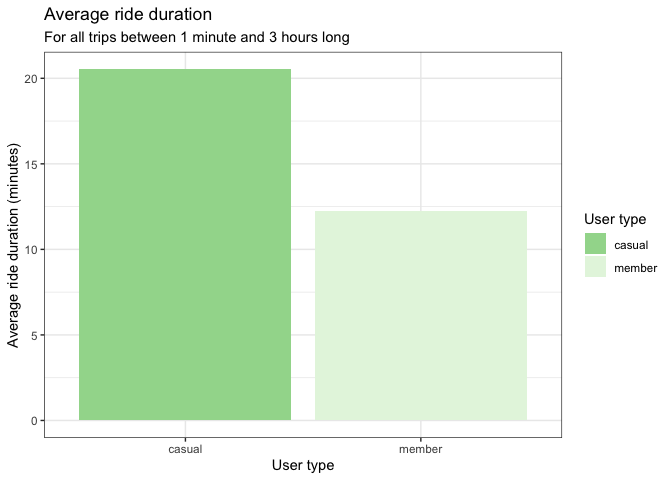
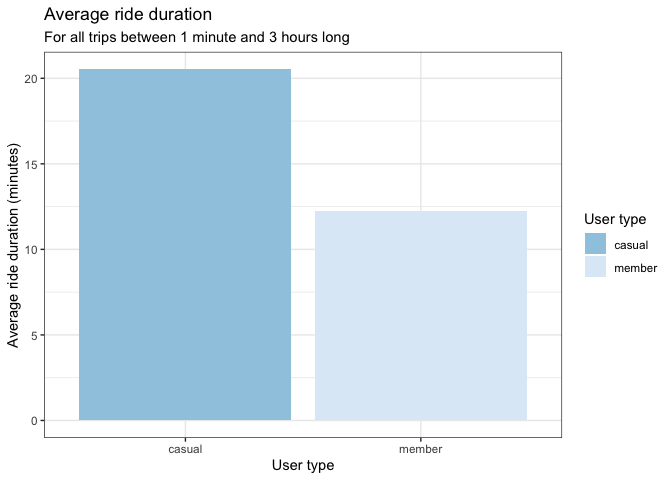
Proofing final report

diff --git a/bikeshare_final_report.md b/bikeshare_final_report.md
@@ -98,7 +98,7 @@ head(rides_2022)
 ```
 
 
-# Data cleaning
+# Data Cleaning
 
 ## Considerations
 
@@ -143,7 +143,7 @@ rides_2022 %>%
 ## 2 member          3345685      59.0
 ```
 
-## Ride times and ride durations
+## Ride Time Data
 
 I transformed the `started_at` and `ended_at` fields from character vectors to datatime.
 
@@ -180,7 +180,7 @@ rides_2022 %>%
 
 5360 rides are very long (greater than 24 hours). With a day pass, Divvy lets you ride up to 3 hours on a single trip before incurring a fee, and the pass is good for 24 hours. It's impossible to know whether trips longer than 3 hours were real trips or whether the user had docking issues. 19592 rides are longer than 3 hours. For my analysis I considered typical use to be between 60 seconds and 3 hours.
 
-## Ride locations and bike types
+## Ride Location and Bike Data
 
 There are three bike types in the data frame - classic_bike, electric_bike, and docked_bike. Divvy docks use a different geolocation system than the bikes themselves-- docks have geolocation with 0.00001° sensitivity, while undocked bikes have geolocation with 0.01° sensitivity. Many Divvy docks are within 0.01° of other docks, especially in the city center where most rides take place, so undocked bikes can't reliably be matched with nearby docks. Divvy allows their users to take out and drop off undocked bikes for a fee.
 
@@ -389,7 +389,7 @@ rides_clean %>%
     fill = "User type") +
   scale_y_continuous(labels = scales::comma) +
   theme_bw() + 
-  scale_fill_brewer(palette = "Greens", direction = -1)
+  scale_fill_brewer(palette = "Blues", direction = -1)
 
 length_plot
 ```
@@ -534,19 +534,16 @@ bike_type_plot
 <img src="bikeshare_final_report_files/figure-html/bike types plot-1.png" style="display: block; margin: auto;" />
 # Recommendations
 
-###### Appeal to electric bike users. 
-
+** 1. Appeal to electric bike users.**
 Casual riders take more trips on e-bikes than on classic bikes. Electric bikes are fun, easy to use, and somewhat novel. Communicating the advantages of membership for e-bike users could convert some casual users.
 
-###### Target casual cyclists riding for leisure.
-
+** 2. Target casual cyclists riding for leisure.**
 Casual riders take more trips on weekends. Advertising membership as a cost-effective way of exploring the city could resonate with people who don't have time to cycle during the week, and want to use bikes for fun. Weekend or off-peak memberships could be an option to explore.
 
-###### Increase advertising at high-traffic stations
-
+** 3. Increase advertising at high-traffic stations.**
 There are 5 stations that are heavily used by casual riders, all of which are located in the city center. Advertise membership to locals who want to get around Chicago to see parks, museums, and restaurants. 
 
-## Divvy Information
+# Divvy Information
 
 [Data source](https://divvy-tripdata.s3.amazonaws.com/index.html)
 
